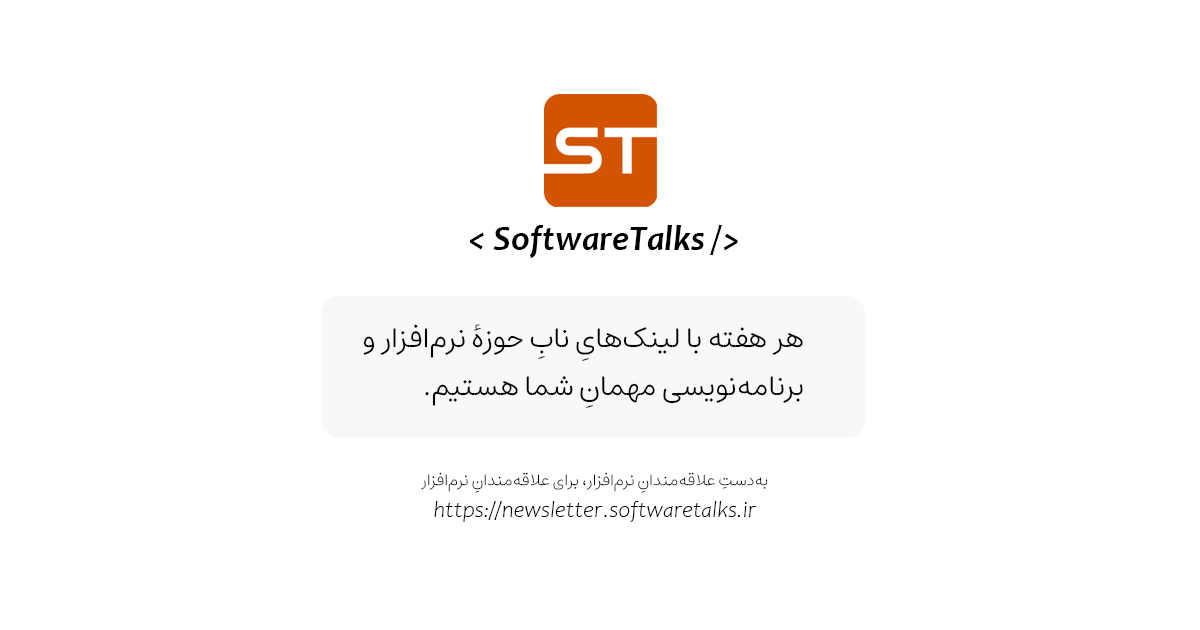
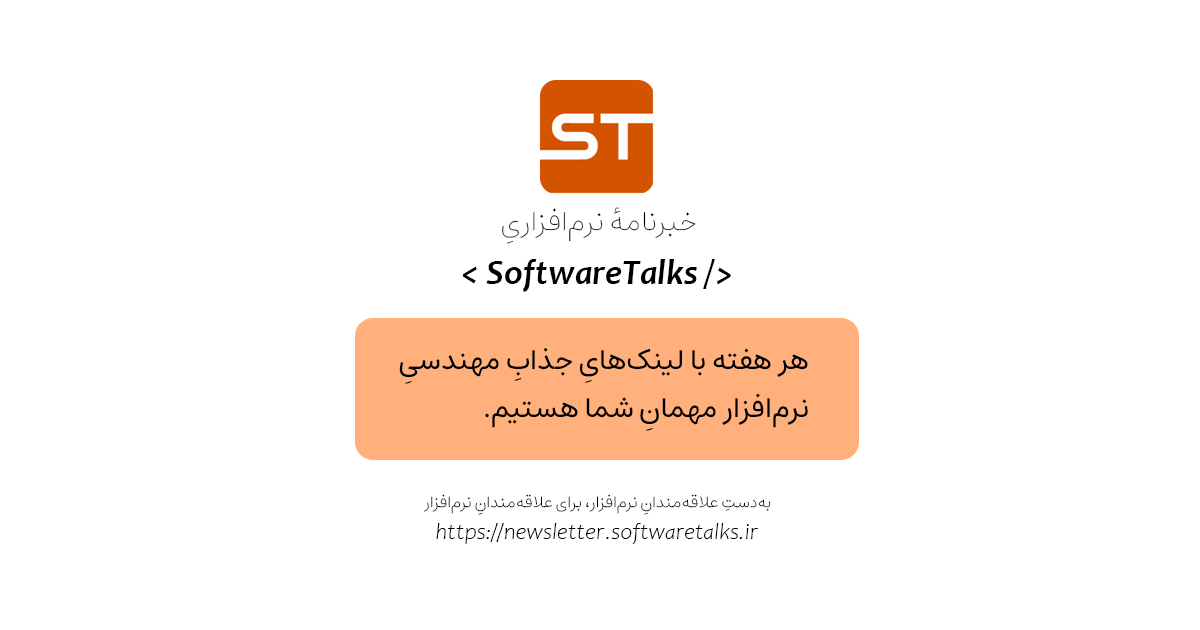
بهبودِ تصویرِ اشتراکِ خبرنامه در شبکههایِ اجتماعی

Changed region(s): [[0.2775, 0.4825, 0.74, 0.8746], [0.37, 0.1206, 0.6167, 0.4524]]

diff --git a/index.html b/index.html
@@ -11,14 +11,14 @@
     <meta charset="utf-8" />
     <meta content="width=device-width, initial-scale=1, user-scalable=no" name="viewport" />
     <meta name="theme-color" content="#D05215" />
-    <meta name="description" content="هر هفته با لینکهایِ نابِ حوزهٔ نرمافزار و برنامهنویسی مهمانِ شما هستیم." />
+    <meta name="description" content="هر هفته با لینکهایِ جذابِ مهندسیِ نرمافزار مهمانِ شما هستیم." />
 
     <!-- OpenGraph meta tags -->
     <meta property="og:type" content="website" />
     <meta property="og:url" content="https://newsletter.softwaretalks.ir/" />
     <meta property="og:site_name" content="SoftwareTalks" />
     <meta property="og:title" content="خبرنامهٔ نرمافزاریِ SoftwareTalks" />
-    <meta property="og:description" content="هر هفته با لینکهایِ نابِ حوزهٔ نرمافزار و برنامهنویسی مهمانِ شما هستیم." />
+    <meta property="og:description" content="هر هفته با لینکهایِ جذابِ مهندسیِ نرمافزار مهمانِ شما هستیم." />
     <meta property="og:image" content="https://newsletter.softwaretalks.ir/images/SoftwareTalks.jpg" />
     <meta property="og:image:alt" content="خبرنامهٔ نرمافزاریِ SoftwareTalks" />
     <meta property="og:image:type" content="image/jpeg" />
@@ -30,7 +30,7 @@
     <meta name="twitter:creator" content="@amirbagh75" />
     <meta name="twitter:card" content="summary_large_image" />
     <meta name="twitter:title" content="خبرنامهٔ نرمافزاریِ SoftwareTalks" />
-    <meta name="twitter:description" content="هر هفته با لینکهایِ نابِ حوزهٔ نرمافزار و برنامهنویسی مهمانِ شما هستیم." />
+    <meta name="twitter:description" content="هر هفته با لینکهایِ جذابِ مهندسیِ نرمافزار مهمانِ شما هستیم." />
     <meta name="twitter:image" content="https://newsletter.softwaretalks.ir/images/SoftwareTalks.jpg" />
     <meta name="twitter:image:alt" content="خبرنامهٔ نرمافزاریِ SoftwareTalks" />
 
